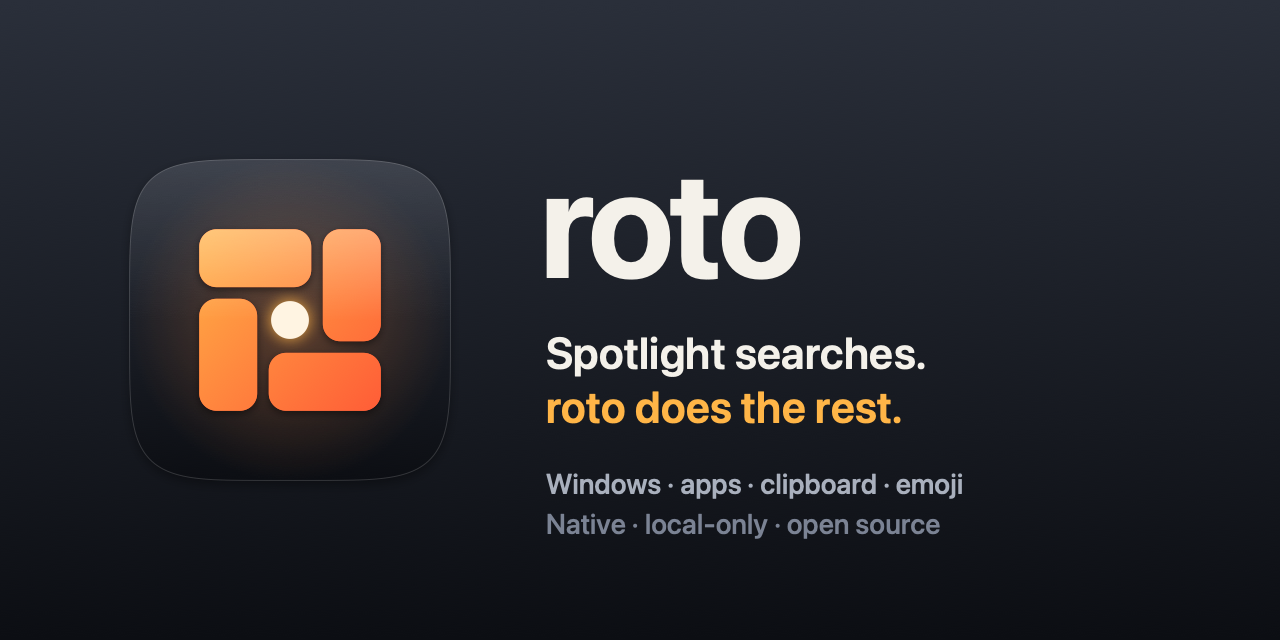
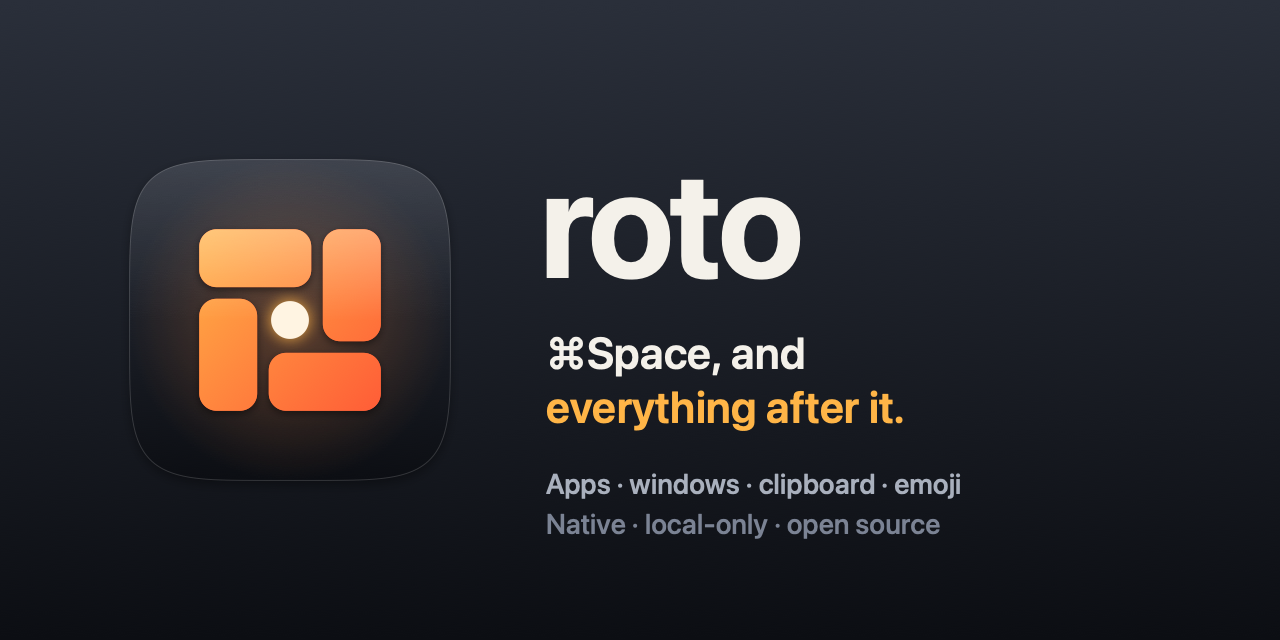
docs: position roto as the ⌘Space launcher
App search takes ⌘Space, so the copy no longer says roto leaves
Spotlight alone. Spotlight is now described as the tool for files and
the web.

- New tagline "⌘Space, and everything after it.", headline "Replace the
  stack." and sign-off "One app. One config. No stack." across the
  README, why.md, the site, brand.md and the social preview.
- why.md and the site list app search first and correct stale figures:
  two dependencies, about 10 MB, 0.04 ms per keystroke, Rust to build.
- The guide explains how existing configs turn app search on and how to
  keep Spotlight on another key.

Changed region(s): [[0.4062, 0.5312, 0.7188, 0.6875], [0.4062, 0.7188, 0.75, 0.7812]]

diff --git a/docs/index.html b/docs/index.html
@@ -3,11 +3,11 @@
 <head>
   <meta charset="utf-8">
   <meta name="viewport" content="width=device-width, initial-scale=1">
-  <title>roto: Stop fixing Spotlight</title>
-  <meta name="description" content="Spotlight searches. roto does the rest. A native, local-only macOS menu bar agent for windows, apps, clipboard, and emoji.">
+  <title>roto: Replace the stack</title>
+  <meta name="description" content="⌘Space, and everything after it. A native, local-only macOS menu bar agent for app search, windows, clipboard, and emoji.">
   <meta name="theme-color" content="#0C0E13">
-  <meta property="og:title" content="roto: Stop fixing Spotlight">
-  <meta property="og:description" content="Spotlight searches. roto does the rest. Windows, apps, clipboard, and emoji in one native, local-only menu bar agent.">
+  <meta property="og:title" content="roto: Replace the stack">
+  <meta property="og:description" content="⌘Space, and everything after it. App search, windows, clipboard, and emoji in one native, local-only menu bar agent.">
   <meta property="og:image" content="https://ahmedragab20.github.io/roto/assets/social-preview.png">
   <meta property="og:url" content="https://ahmedragab20.github.io/roto/">
   <meta name="twitter:card" content="summary_large_image">
@@ -120,11 +120,12 @@
 
     .features { display: grid; grid-template-columns: repeat(3, 1fr); gap: 16px; }
     .feature { background: var(--surface); border: 1px solid var(--line); border-radius: 20px; padding: 22px; }
+    .feature.wide { grid-column: 1 / -1; }
     .feature h3 { margin: 0 0 6px; font-size: 18px; letter-spacing: -0.01em; }
     .feature p { margin: 0 0 14px; color: var(--muted); font-size: 15px; }
     kbd { display: inline-block; padding: 2px 8px; border-radius: 7px; background: var(--chip); border: 1px solid var(--line); font-size: 14px; font-weight: 600; }
 
-    .stats { display: grid; grid-template-columns: repeat(5, 1fr); gap: 14px; }
+    .stats { display: grid; grid-template-columns: repeat(3, 1fr); gap: 14px; }
     .stat { background: var(--surface); border: 1px solid var(--line); border-radius: 18px; padding: 20px; }
     .stat b { display: block; font-size: 30px; letter-spacing: -0.03em; line-height: 1.1; }
     .stat span { color: var(--muted); font-size: 14px; }
@@ -179,8 +180,8 @@
   <main id="top">
     <div class="wrap hero">
       <img class="icon" src="assets/icon-512.png" alt="roto app icon">
-      <h1>Stop fixing <span class="gradient">Spotlight.</span></h1>
-      <p class="lede"><strong>Spotlight searches. roto does the rest.</strong> Windows, apps, clipboard, and emoji in one native, local-only menu bar agent for macOS.</p>
+      <h1>Replace the <span class="gradient">stack.</span></h1>
+      <p class="lede"><strong>⌘Space, and everything after it.</strong> App search, windows, clipboard, and emoji in one native, local-only menu bar agent for macOS.</p>
       <div class="actions">
         <a class="button primary" href="#install">Build from source</a>
         <a class="button" href="https://github.com/ahmedragab20/roto/blob/main/docs/why.md">Read why</a>
@@ -191,13 +192,13 @@
     <section id="why">
       <div class="wrap">
         <p class="eyebrow">Why replace, not fix</p>
-        <h2>Spotlight isn't the problem.<br>The pile of fixes is.</h2>
-        <p class="intro">What people miss on a Mac is rarely search. It's snapping a window, getting back last hour's copy, typing an emoji, jumping to the terminal. So they install a bigger launcher that rebuilds search to add those, or a stack of single-purpose apps. roto keeps Spotlight and replaces the stack.</p>
+        <h2>The gaps are small.<br>The pile of fixes isn't.</h2>
+        <p class="intro">What people miss on a Mac is a handful of small things: opening an app with a few letters, snapping a window, getting back last hour's copy, typing an emoji, jumping to the terminal. So they install a bigger launcher that puts it all behind one text box, or a stack of single-purpose apps. roto takes ⌘Space and replaces the stack.</p>
         <div class="compare">
           <div class="panel">
             <h3>The usual stack</h3>
             <ul class="stack">
-              <li><span>A launcher replacing Spotlight</span><span>second ⌘Space</span></li>
+              <li><span>An app launcher</span><span>own index</span></li>
               <li><span>A window tiler</span><span>own permissions</span></li>
               <li><span>A clipboard manager</span><span>own updater</span></li>
               <li><span>An emoji picker</span><span>own settings</span></li>
@@ -208,7 +209,7 @@
           <div class="panel roto">
             <img src="assets/icon-256.png" alt="">
             <h3>roto</h3>
-            <p>One small agent next to Spotlight, not instead of it.</p>
+            <p>One small agent on ⌘Space, with every tool a key away.</p>
             <ul class="facts">
               <li>One app, one process, one menu bar icon</li>
               <li>One required permission: Accessibility</li>
@@ -226,6 +227,11 @@
         <h2>Each one is a key away.<br>No palette in between.</h2>
         <p class="intro">Every tool has its own hotkey and opens directly. Change any key in <code>~/.config/roto/config.toml</code>; roto reloads it as you save.</p>
         <div class="features">
+          <div class="feature wide">
+            <h3>App search</h3>
+            <p>Type a few letters to open any installed app. It forgives typos, puts the apps you open most on top, and answers in the same frame as the keystroke.</p>
+            <kbd>⌘Space</kbd>
+          </div>
           <div class="feature">
             <h3>Window layout</h3>
             <p>Halves, thirds, quarters, maximize, a large centered size that leaves the desktop in view, and moving between displays.</p>
@@ -268,7 +274,8 @@
         <div class="stats">
           <div class="stat"><b>~30 MB</b><span>memory at idle, all popups built</span></div>
           <div class="stat"><b>~0.1%</b><span>CPU at idle</span></div>
-          <div class="stat"><b>~5 MB</b><span>the whole app, icon included</span></div>
+          <div class="stat"><b>~10 MB</b><span>the whole app, search library included</span></div>
+          <div class="stat"><b>0.04 ms</b><span>app search per keystroke</span></div>
           <div class="stat"><b>0.9 ms</b><span>emoji search per keystroke</span></div>
           <div class="stat"><b>0.7 ms</b><span>clipboard search, 200 entries</span></div>
         </div>
@@ -287,7 +294,7 @@
         <p class="eyebrow">Honest limits</p>
         <h2>What roto won't do.</h2>
         <ul class="wont">
-          <li>Search files, apps, or the web. Spotlight does that well.</li>
+          <li>Search files or the web. App search covers apps only, for now.</li>
           <li>Plugins, extension stores, AI features, or sync.</li>
           <li>Signed downloads or auto-update. You build it from source.</li>
           <li>Run on macOS older than 14.</li>
@@ -299,7 +306,7 @@
       <div class="wrap">
         <p class="eyebrow">Install</p>
         <h2>One clone, one make.</h2>
-        <p class="intro">Needs macOS 14 or later and the Swift command line tools (<code>xcode-select --install</code>; Xcode itself is not required). On first launch, allow roto under Privacy &amp; Security → Accessibility.</p>
+        <p class="intro">Needs macOS 14 or later, the Swift command line tools (<code>xcode-select --install</code>; Xcode itself is not required), and Rust (<a href="https://rustup.rs">rustup.rs</a>) to build the search library. On first launch, allow roto under Privacy &amp; Security → Accessibility.</p>
 <pre><code><span class="c"># build, bundle, and copy to /Applications</span>
 git clone https://github.com/ahmedragab20/roto.git
 cd roto
@@ -312,7 +319,7 @@ open /Applications/roto.app</code></pre>
 
   <footer>
     <div class="wrap">
-      <span class="sign">Keep Spotlight. Replace the fixes.</span>
+      <span class="sign">One app. One config. No stack.</span>
       <a href="https://github.com/ahmedragab20/roto/blob/main/PRIVACY.md">Privacy</a>
       <a href="https://github.com/ahmedragab20/roto/blob/main/docs/brand.md">Brand</a>
       <a href="https://github.com/ahmedragab20/roto/blob/main/LICENSE">MIT License</a>

diff --git a/scripts/make-brand.swift b/scripts/make-brand.swift
@@ -136,9 +136,9 @@ struct MakeBrand {
         NSGraphicsContext.current = NSGraphicsContext(cgContext: ctx, flipped: false)
         let left: CGFloat = 540
         draw("roto", font: .systemFont(ofSize: 150, weight: .bold), color: Palette.paper, at: CGPoint(x: left, y: 330))
-        draw("Spotlight searches.", font: .systemFont(ofSize: 44, weight: .semibold), color: Palette.paper, at: CGPoint(x: left + 6, y: 262))
-        draw("roto does the rest.", font: .systemFont(ofSize: 44, weight: .semibold), color: Palette.amber, at: CGPoint(x: left + 6, y: 208))
-        draw("Windows · apps · clipboard · emoji", font: .systemFont(ofSize: 28, weight: .medium), color: Palette.mist, at: CGPoint(x: left + 6, y: 140))
+        draw("⌘Space, and", font: .systemFont(ofSize: 44, weight: .semibold), color: Palette.paper, at: CGPoint(x: left + 6, y: 262))
+        draw("everything after it.", font: .systemFont(ofSize: 44, weight: .semibold), color: Palette.amber, at: CGPoint(x: left + 6, y: 208))
+        draw("Apps · windows · clipboard · emoji", font: .systemFont(ofSize: 28, weight: .medium), color: Palette.mist, at: CGPoint(x: left + 6, y: 140))
         draw("Native · local-only · open source", font: .systemFont(ofSize: 28, weight: .medium), color: Palette.slate, at: CGPoint(x: left + 6, y: 100))
         NSGraphicsContext.restoreGraphicsState()
         return ctx.makeImage()!

diff --git a/Sources/RotoCore/Brand/BrandMark.swift b/Sources/RotoCore/Brand/BrandMark.swift
@@ -1,8 +1,8 @@
 import CoreGraphics
 import Foundation
 
-/// roto's mark: four tiles turning around a center spot. Spotlight is the spot;
-/// the tiles are the tools roto runs around it. One geometry feeds the app icon,
+/// roto's mark: four tiles turning around a center spot. The spot is what you
+/// are working on; the tiles are the tools roto turns around it. One geometry feeds the app icon,
 /// the menu bar icon, and the website.
 public enum BrandMark {
     /// Long and short side of each tile as a share of the mark's width (they sum to 1).

diff --git a/docs/why.md b/docs/why.md
@@ -1,17 +1,14 @@
-# Stop fixing Spotlight
+# Replace the stack
 
-**Spotlight searches. roto does the rest.**
+**⌘Space, and everything after it.**
 
-This is why roto exists, and why it leaves Spotlight alone.
+This is why roto exists, and why it is one app instead of six.
 
-## Spotlight is good at its job
+## The gaps are small, and there are many
 
-Spotlight finds apps, files, settings, and quick answers. It ships with every Mac, indexes on your machine, and costs nothing. roto does not try to beat it at any of that.
+What people miss on a Mac is rarely one big feature. It is a handful of small ones:
 
-## The gaps are not search problems
-
-What people miss on a Mac is rarely about finding things:
-
+- Open an app by typing a few letters, typos included, with the one you use most on top.
 - Put this window on the left half, or the right third, without reaching for the mouse.
 - Get back the thing you copied five minutes ago.
 - Type an emoji into the field you are already in.
@@ -19,22 +16,23 @@ What people miss on a Mac is rarely about finding things:
 - See every open window and pick one.
 - Remember which shortcut does what.
 
-None of these is a search. Moving a window should not start with a text box.
+Only the first is a search. Moving a window should not start with a text box.
 
 ## Two ways people fix it
 
-**Replace Spotlight with a bigger launcher.** Launchers like Raycast and Alfred are excellent software. But to add window moves and clipboard history, they first rebuild the search you already have, and then keep growing: extension stores, sync, subscriptions, AI tiers. You end up with two launchers competing for ⌘Space and far more surface than the job needs.
+**Install a bigger launcher.** Launchers like Raycast and Alfred are excellent software. But they put everything behind one text box, then keep growing: extension stores, sync, subscriptions, AI tiers. You get far more surface than the job needs.
 
-**Stack single-purpose apps.** A window tiler, a clipboard manager, an emoji picker, an app launcher, a window switcher. Five apps means five permission prompts, five updaters, five settings windows, five processes idling in memory, and five sets of shortcuts that can collide.
+**Stack single-purpose apps.** An app launcher, a window tiler, a clipboard manager, an emoji picker, a window switcher. Five apps means five permission prompts, five updaters, five settings windows, five processes idling in memory, and five sets of shortcuts that can collide.
 
-Both fixes treat Spotlight as the thing to fix. It isn't. The pile of fixes is.
+Both work. Both leave you maintaining a pile.
 
-## roto replaces the fixes
+## roto replaces the stack
 
-roto keeps Spotlight for search and replaces the pile around it with one small menu bar agent:
+roto takes ⌘Space for app search and covers the rest with one small menu bar agent:
 
 | Tool | Default key | What it does |
 | --- | --- | --- |
+| App search | ⌘Space | Find and open any installed app; forgives typos and learns what you open |
 | Window layout | ⌃⌥← ⌃⌥→ ⌃⌥↑ ⌃⌥↓ … | Halves, thirds, quarters, maximize, large centered (⌃⌥⇧C), center, next display |
 | Window focus | ⌃⌥⇧H/J/K/L | Focus the window to the left, right, above, or below |
 | App hotkeys | your choice | Open, focus, or cycle an app with one chord |
@@ -45,22 +43,26 @@ roto keeps Spotlight for search and replaces the pile around it with one small m
 
 Each tool has its own hotkey and opens directly. There is no palette to type into first, no extensions, and no account.
 
+Spotlight stays installed for files and the web. Give it another key, or open it from the menu bar.
+
 ## Native, fast, small
 
-roto is Swift, built on AppKit, SwiftUI, the Accessibility API, and ScreenCaptureKit. No Electron, no web views, no JavaScript runtime, no helper processes. Its only dependency is a TOML parser, compiled in.
+roto is Swift, built on AppKit, SwiftUI, the Accessibility API, and ScreenCaptureKit. No Electron, no web views, no JavaScript runtime, no helper processes. It has two dependencies, both compiled in: a TOML parser, and [fff](https://github.com/dmtrKovalenko/fff), the Rust search library behind app search.
 
 Measured on an M1 Pro running macOS 27, release build:
 
 | Measure | Result |
 | --- | --- |
 | Memory at idle, all popups built | about 30 MB |
-| App size | about 5 MB |
+| App size | about 10 MB (fff is about half) |
+| App search, 96 apps, per keystroke | 0.04 ms median (0.15 ms p95) |
 | Emoji search, 1,909 emoji, per keystroke | 0.9 ms median (1.1 ms p95) |
 | Clipboard search, 200 entries including ten 1 MB texts | 0.7 ms median |
 
 A few choices keep it that way:
 
 - Popups are built once at launch and reused. A hotkey shows a window; it does not build one.
+- App search answers in the same frame as the keystroke. Scanning for new apps happens in the background, never while you type.
 - Search text is folded (case, accents, width) once, when an entry arrives, not on every keystroke.
 - Search rules an entry out by its characters before doing any fuzzy work, so a typo-tolerant match is only attempted where the letters could line up at all.
 - Copied images are stored once by content and, by default, kept on disk, so a history full of screenshots does not sit in memory.
@@ -81,11 +83,11 @@ The app contains no network code. No analytics, no accounts, no update checks. Y
 
 ## What roto will not do
 
-- Search files, apps, or the web. That is Spotlight's job, and it does it well.
+- Search files or the web. App search covers apps only, for now.
 - Plugins, extension stores, AI features, or sync.
 - Signed downloads or auto-update. You build it from source with one `make run`.
 - Run on macOS older than 14.
 
 If you need those, a full launcher is the right tool. If you only ever installed one to patch the gaps, you can uninstall the patches.
 
-**Keep Spotlight. Replace the fixes.**
+**One app. One config. No stack.**

diff --git a/docs/guide.md b/docs/guide.md
@@ -88,6 +88,10 @@ Display focus chooses the frontmost eligible window on the adjacent display in t
 
 `[hotkeys] launcher` (⌘Space by default) opens app search. Type part of an app's name and press ↵ to open it. Opening an app that is already running brings it forward, like clicking its Dock icon.
 
+App search replaces Spotlight for opening apps. It does not search files, settings, or the web; Spotlight keeps doing that, on another key or from its menu bar icon.
+
+**Upgrading from an older roto.** roto never rewrites your config, so an existing `config.toml` does not get the new shortcut. Add `launcher = "cmd+space"` under `[hotkeys]`, or open **Customize Shortcuts… → Add Popup → App search** from the menu bar.
+
 Matching and ranking come from [fff](https://github.com/dmtrKovalenko/fff): typos are forgiven (`safri` finds Safari), word starts count (`sys set` finds System Settings), and apps you open often rise to the top. With an empty search, apps you have opened come first, then everything else by name.
 
 roto lists apps in `/Applications`, `~/Applications`, `/System/Applications`, and `/System/Library/CoreServices/Applications`, plus one level of subfolders (such as Utilities), and Finder. New and removed apps show up the next time the popup opens. A search costs well under a millisecond, so results change on the same keystroke.
@@ -95,7 +99,7 @@ roto lists apps in `/Applications`, `~/Applications`, `/System/Applications`, an
 **Take ⌘Space from Spotlight.** macOS gives ⌘Space to Spotlight before any app sees it. Until you turn that off, the menu bar shows a warning and ⌘Space keeps opening Spotlight:
 
 1. Open **System Settings → Keyboard → Keyboard Shortcuts… → Spotlight**.
-2. Turn off **Show Spotlight search**.
+2. Turn off **Show Spotlight search**, or double-click its key and give Spotlight a new one, such as ⌃⌥Space, to keep it for files.
 3. Press ⌘Space: roto's app search opens.
 
 To keep Spotlight on ⌘Space, bind app search to another key instead, for example `launcher = "alt+space"`.

diff --git a/docs/brand.md b/docs/brand.md
@@ -6,20 +6,20 @@ Always lowercase: **roto**, even at the start of a sentence. Never "Roto" or "RO
 
 ## Idea
 
-**Spotlight searches. roto does the rest.**
+**⌘Space, and everything after it.**
 
-roto keeps Spotlight for search and replaces the pile of tools people install around it. The brand never attacks Spotlight or the apps it replaces; it argues for one small, native, local tool instead of a stack.
+roto takes ⌘Space for app search and replaces the pile of tools people install around it. The brand never attacks Spotlight or the apps it replaces; it argues for one small, native, local tool instead of a stack.
 
 | Use | Line |
 | --- | --- |
-| Primary tagline | Spotlight searches. roto does the rest. |
-| Headline | Stop fixing Spotlight. |
-| Sign-off | Keep Spotlight. Replace the fixes. |
-| Descriptor | A native, local-only menu bar agent for windows, apps, clipboard, and emoji. |
+| Primary tagline | ⌘Space, and everything after it. |
+| Headline | Replace the stack. |
+| Sign-off | One app. One config. No stack. |
+| Descriptor | A native, local-only menu bar agent for app search, windows, clipboard, and emoji. |
 
 ## Mark
 
-Four tiles turning around a spot. The spot is Spotlight; the tiles are the tools roto runs around it. The tiles also read as window halves and quarters, which is where roto started.
+Four tiles turning around a spot. The spot is what you are working on; the tiles are the tools roto turns around it. The tiles also read as window halves and quarters, which is where roto started.
 
 <p><img src="assets/icon-256.png" width="128" alt="roto app icon"> <img src="assets/mark.svg" width="96" alt="roto mark"></p>
 

diff --git a/README.md b/README.md
@@ -5,8 +5,8 @@
 <h1 align="center">roto</h1>
 
 <p align="center">
-  <strong>Spotlight searches. roto does the rest.</strong><br>
-  Windows, apps, clipboard, and emoji in one native, local-only menu bar agent for macOS.
+  <strong>⌘Space, and everything after it.</strong><br>
+  App search, windows, clipboard, and emoji in one native, local-only menu bar agent for macOS.
 </p>
 
 <p align="center">
@@ -17,11 +17,11 @@
   <a href="PRIVACY.md">Privacy</a>
 </p>
 
-## Stop fixing Spotlight
+## Replace the stack
 
-Spotlight is good at search. What people miss on a Mac is everything else: snapping a window to a third, getting back last hour's copy, typing an emoji, jumping to the terminal with one chord. The usual fix is a bigger launcher that rebuilds search to add those, or a stack of single-purpose apps with their own permissions, updaters, and shortcuts.
+What people miss on a Mac is a handful of small things: opening an app with a few letters, snapping a window to a third, getting back last hour's copy, typing an emoji, jumping to the terminal with one chord. The usual fix is a bigger launcher that puts all of it behind one text box, or a stack of single-purpose apps with their own permissions, updaters, and shortcuts.
 
-roto keeps Spotlight and replaces the stack. Read the whole argument in [Stop fixing Spotlight](docs/why.md).
+roto takes ⌘Space for app search and replaces the stack. Spotlight stays for files and the web. Read the whole argument in [Replace the stack](docs/why.md).
 
 ## The tools
 
